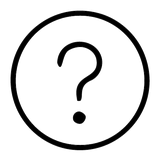
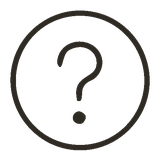
Bring the new homepage back in line with the original mockup's texture
Root-caused the "quality feels off" complaint against the very first
reference mockup:

- Headings were always meant to use a lighter serif weight than 700;
  add a self-hosted, subsetted Noto Serif TC 400 (fonts/) and switch
  the brand/hero titles to it.
- Feature icons in the original mockup use a warm gold ring around a
  dark glyph, not a flat black ring+glyph. Re-crop the glyphs alone
  (excluding the baked-in ring) from BG2.jpg, recolor them to the
  site's ink tone, and draw the gold ring in CSS instead.
- Recolor the nav icon glyphs from flat black to the same ink tone for
  consistency with the feature icons and the mockup's charcoal line
  weight.
- Revert the "直接私訊老闆" row from a solid accent block back to a
  soft warm tint (a new --featured-bg token, slightly stronger than
  the hover tint so it reads as distinct at rest) to match the
  mockup's subtle highlight instead of a heavy CTA block.
- Cool the page background half a shade to match the mockup's more
  neutral cream.

Changed region(s): [[0.0625, 0.0625, 0.9375, 0.9375], [0.3438, 0.25, 0.6562, 0.625], [0.4375, 0.6875, 0.5312, 0.7812]]

diff --git a/new/index.html b/new/index.html
@@ -7,11 +7,11 @@
 <meta name="description" content="回春視務所｜高雄前金區證件照專門店，自然系質感修圖，現拍現修現取，約60分鐘完成，一組NT$700，平日假日皆可線上預約。">
 <link rel="canonical" href="https://hui-chun.com/new/">
 <meta name="robots" content="noindex, nofollow">
-<link rel="preload" href="/fonts/noto-serif-tc-700.woff2" as="font" type="font/woff2" crossorigin>
+<link rel="preload" href="/fonts/noto-serif-tc-400.woff2" as="font" type="font/woff2" crossorigin>
 <link rel="preload" href="/fonts/noto-sans-tc-400.woff2" as="font" type="font/woff2" crossorigin>
 <style>
   :root{
-    --bg: #F4EFE7;
+    --bg: #F3EFEE;
     --bg-soft: #EFE7D9;
     --ink: #2E2A23;
     --ink-soft: #58513F;
@@ -21,9 +21,16 @@
     --line: #E2D7C3;
     --circle-line: #CFC3AC;
     --highlight-bg: #F1E4C9;
+    --featured-bg: #E7D4B0;
     --card: #FBF8F2;
   }
 
+  @font-face{
+    font-family:'Noto Serif TC';
+    font-weight:400;
+    font-display:swap;
+    src:url('/fonts/noto-serif-tc-400.woff2') format('woff2');
+  }
   @font-face{
     font-family:'Noto Serif TC';
     font-weight:700;
@@ -81,7 +88,7 @@
   .brand{ text-align:center; padding: 40px 0 22px; }
   .brand-title{
     font-family:'Noto Serif TC', serif;
-    font-weight: 700;
+    font-weight: 400;
     font-size: clamp(26px, 8vw, 32px);
     letter-spacing: 0.42em;
     text-indent: 0.42em; /* re-center the trailing letter-spacing gap */
@@ -109,7 +116,7 @@
   /* ---------- hero ---------- */
   .hero-title{
     font-family:'Noto Serif TC', serif;
-    font-weight: 700;
+    font-weight: 400;
     font-size: clamp(24px, 7.2vw, 28px);
     letter-spacing: 0.16em;
     text-indent: 0.16em;
@@ -142,10 +149,12 @@
   .feature:last-child{ border-bottom: none; margin-bottom:0; padding-bottom:0; }
   .feature-icon{
     flex: 0 0 auto;
-    width: 58px; height: 58px;
+    width: 56px; height: 56px;
+    border-radius: 50%;
+    border: 1px solid var(--accent-soft);
     display:flex; align-items:center; justify-content:center;
   }
-  .feature-icon img{ width: 100%; height: 100%; }
+  .feature-icon img{ width: 26px; height: 26px; }
   .feature-text{ padding-top: 3px; font-size: 13px; line-height: 1.6; white-space: nowrap; }
   .feature-text .line1{ color: var(--ink); font-weight: 400; }
   .feature-text .line2{ color: var(--muted); }
@@ -198,14 +207,9 @@
   .menu-item:active .menu-icon img{
     filter: brightness(0) invert(1);
   }
-  .menu-item.featured{ background-color: var(--accent); }
-  .menu-item.featured .menu-label,
-  .menu-item.featured .menu-chevron{ color: var(--card); }
-  .menu-item.featured .menu-icon{ border-color: var(--card); }
-  .menu-item.featured .menu-icon img{ filter: brightness(0) invert(1); }
+  .menu-item.featured{ background-color: var(--featured-bg); }
   .menu-item.featured:hover,
-  .menu-item.featured:focus-visible{ background-color: var(--ink-soft); }
-  .menu-item.featured:active{ background-color: var(--ink); }
+  .menu-item.featured:focus-visible{ background-color: var(--accent-soft); }
   .menu-icon{
     flex: 0 0 auto;
     width: 48px; height: 48px;
@@ -256,28 +260,28 @@
     <div class="hero-grid">
       <ul class="feature-list">
         <li class="feature">
-          <span class="feature-icon"><img src="img/feature-tag.webp" width="46" height="46" alt="" decoding="async"></span>
+          <span class="feature-icon"><img src="img/feature-tag.webp" width="26" height="26" alt="" decoding="async"></span>
           <span class="feature-text">
             <span class="line1">一組 NT$700</span><br>
             <span class="line2">（精修，不含妝髮）</span>
           </span>
         </li>
         <li class="feature">
-          <span class="feature-icon"><img src="img/feature-mail.webp" width="46" height="46" alt="" decoding="async"></span>
+          <span class="feature-icon"><img src="img/feature-mail.webp" width="26" height="26" alt="" decoding="async"></span>
           <span class="feature-text">
             <span class="line1">附電子檔（Email）</span><br>
             <span class="line2">＋16 張兩吋照片（可改一吋）</span>
           </span>
         </li>
         <li class="feature">
-          <span class="feature-icon"><img src="img/feature-clock.webp" width="46" height="46" alt="" decoding="async"></span>
+          <span class="feature-icon"><img src="img/feature-clock.webp" width="26" height="26" alt="" decoding="async"></span>
           <span class="feature-text">
             <span class="line1">從拍攝到取件，</span><br>
             <span class="line2">大約 60 分鐘</span>
           </span>
         </li>
         <li class="feature">
-          <span class="feature-icon"><img src="img/feature-monitor.webp" width="46" height="46" alt="" decoding="async"></span>
+          <span class="feature-icon"><img src="img/feature-monitor.webp" width="26" height="26" alt="" decoding="async"></span>
           <span class="feature-text">
             <span class="line1">現場即可確認修片效果，</span><br>
             <span class="line2">不用再跑第二趟</span>
@@ -359,7 +363,7 @@
   // 自動偵測改版，避免手機瀏覽器停留在舊版內容（做法見 CLAUDE.md
   // 「Mobile browsers showing stale cached content」）。
   // 每次更新這個檔案，把版本號改成新的（例如當天日期）。
-  var BUILD_VERSION = "2026-09-01-06";
+  var BUILD_VERSION = "2026-09-01-07";
   var isCheckingUpdate = false;
   function checkForUpdate(){
     if(isCheckingUpdate) return;
